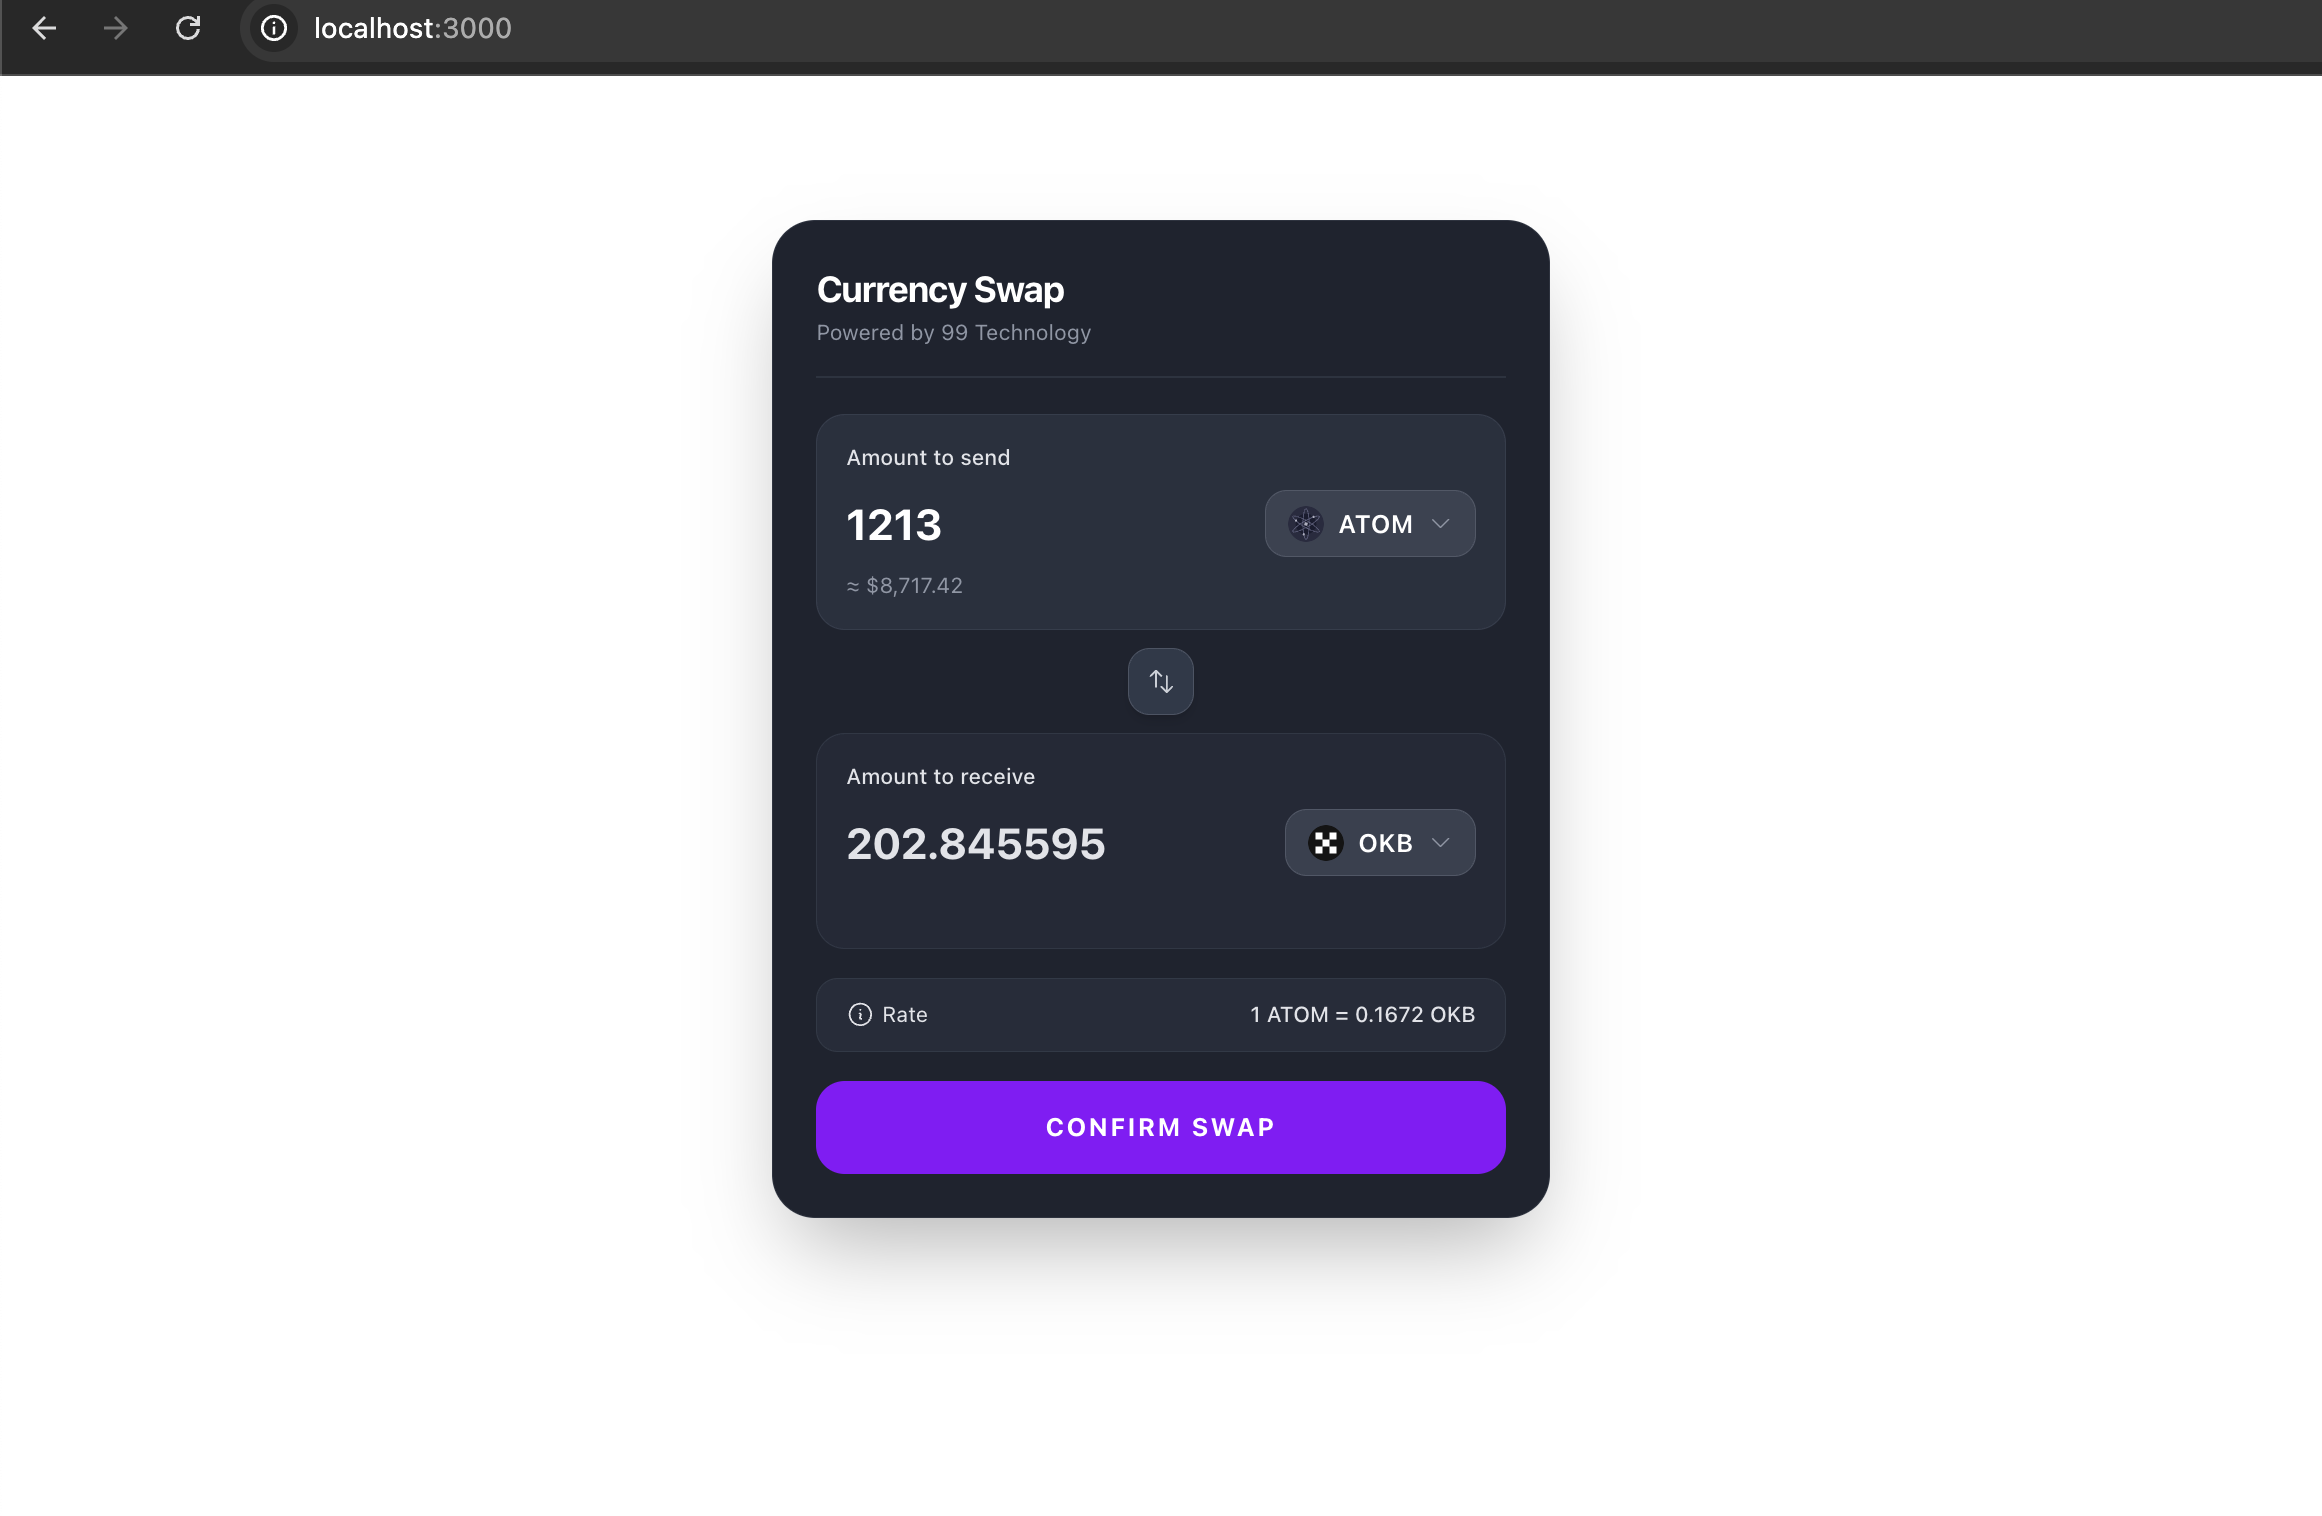
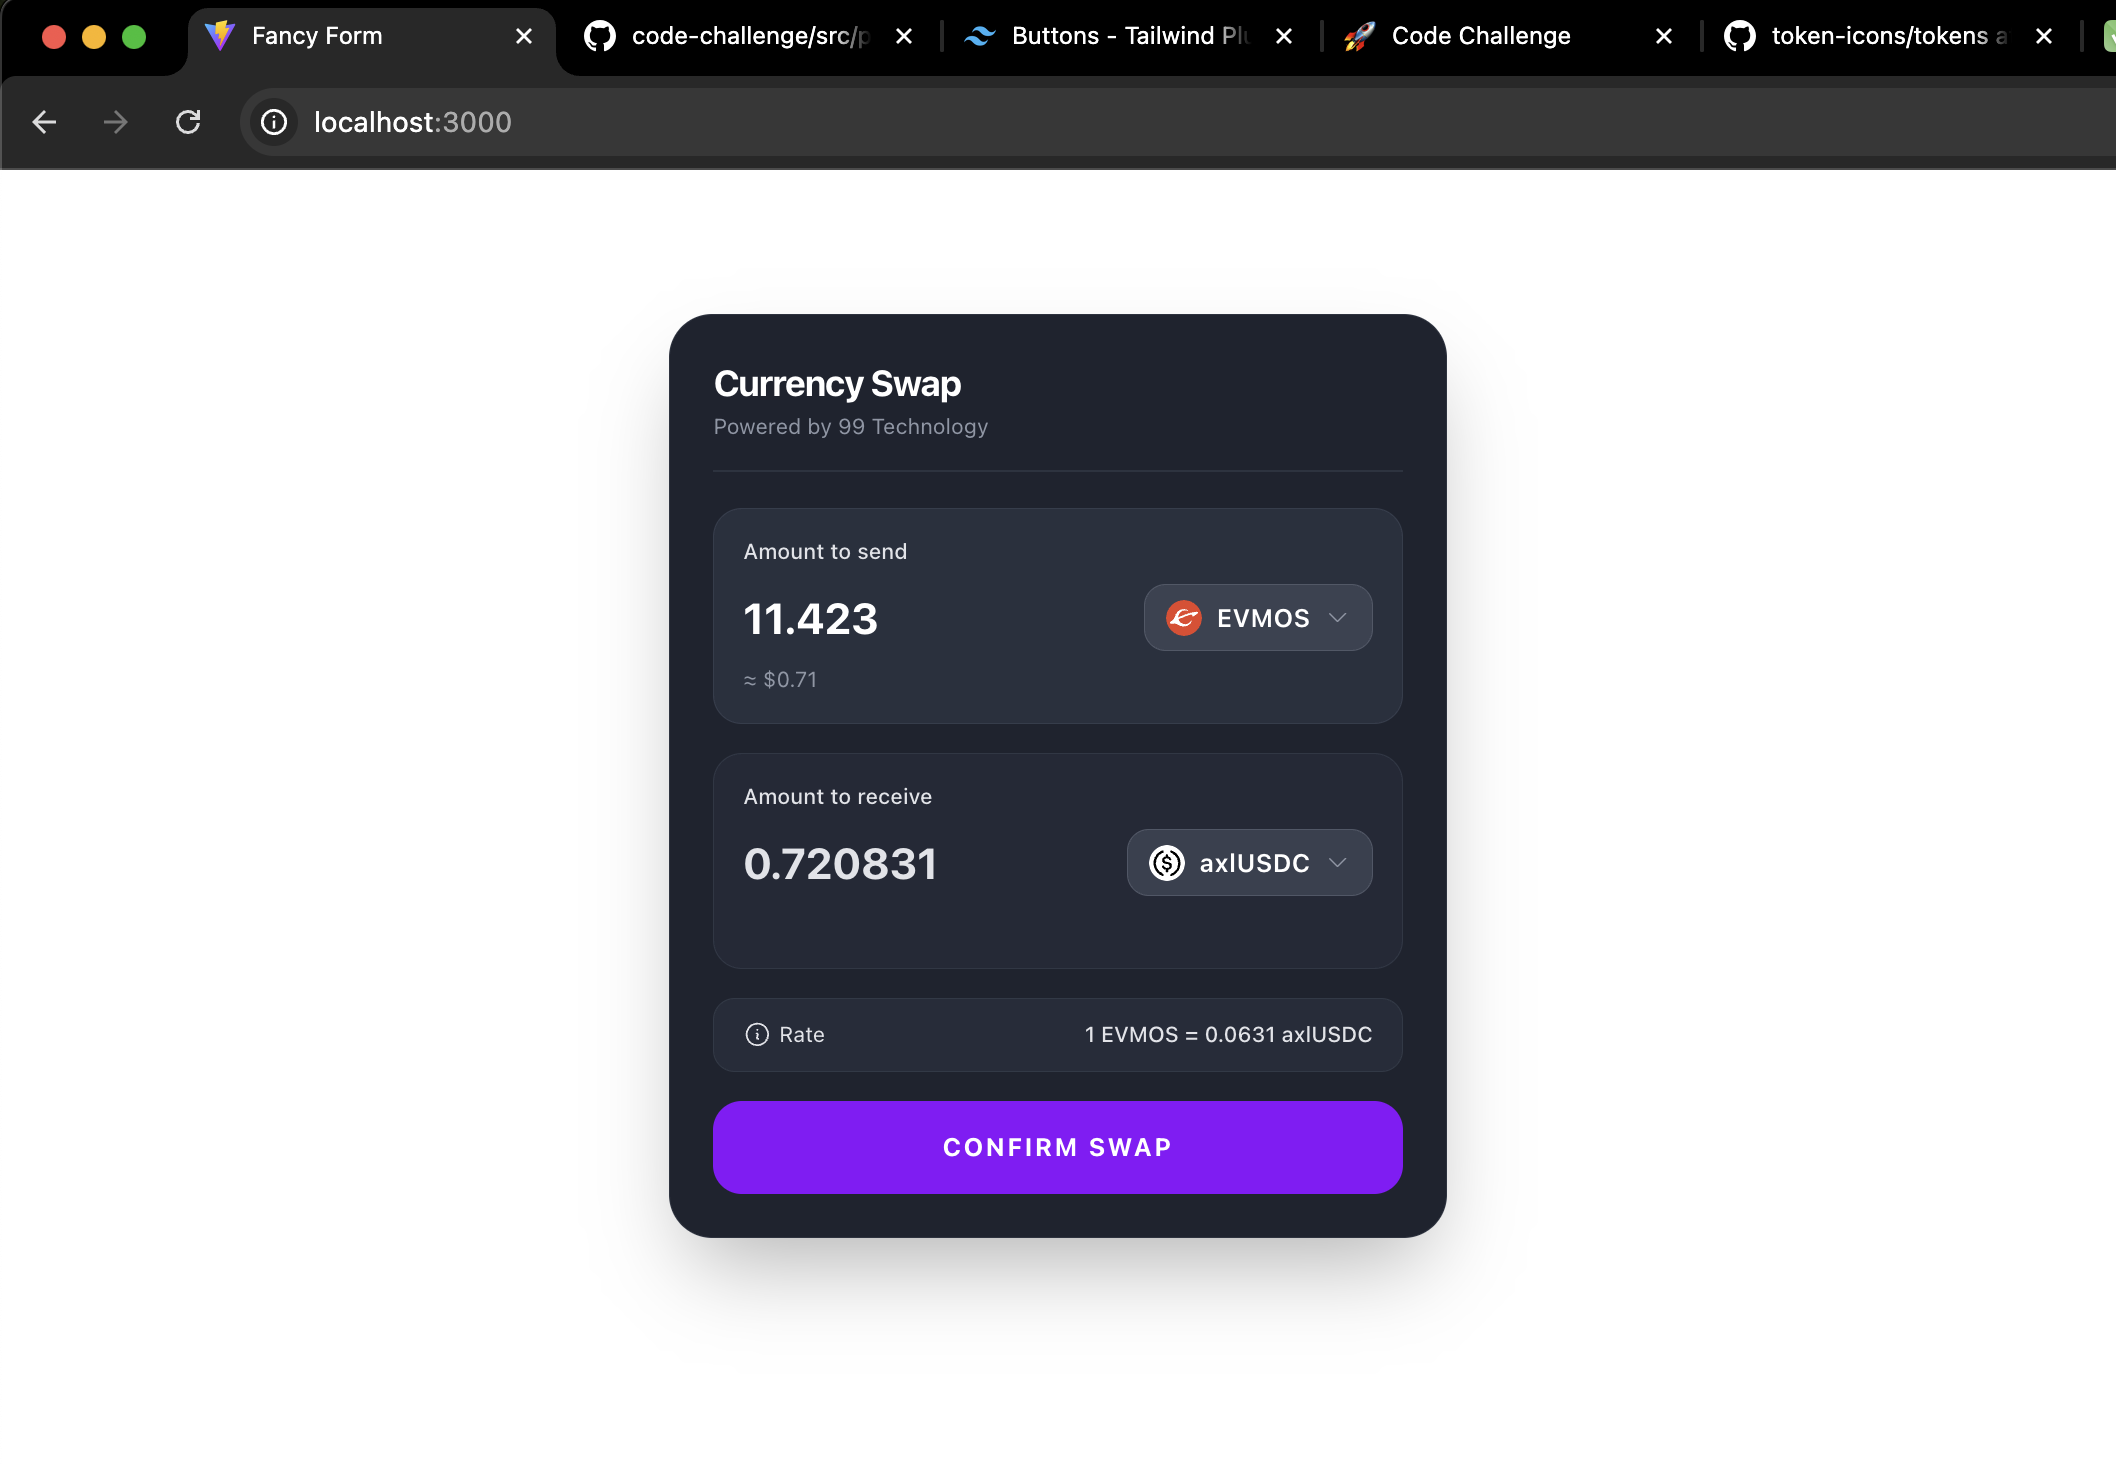
feat: clean up and refactor a bit

diff --git a/src/problem2/src/app/app.tsx b/src/problem2/src/app/app.tsx
@@ -2,7 +2,6 @@ import { useState, useMemo } from 'react';
 import {
   ExclamationCircleIcon,
   ArrowPathIcon,
-  ArrowsUpDownIcon,
   CheckCircleIcon,
   InformationCircleIcon
 } from '@heroicons/react/24/outline';
@@ -45,13 +44,6 @@ export default function App() {
       return 'Cannot swap the same token';
     return null;
   }, [fromAmount, fromToken, toToken]);
-
-  const handleFlip = () => {
-    const capturedTo = toAmount;
-    setFromToken(toToken);
-    setToToken(fromToken);
-    setFromAmount(capturedTo);
-  };
 
   const handleSubmit = (event: React.FormEvent) => {
     event.preventDefault();
@@ -171,17 +163,7 @@ export default function App() {
                 disabled={swap.isPending}
               />
 
-              <div className="flex items-center justify-center my-2.5 relative z-10">
-                <button
-                  type="button"
-                  onClick={handleFlip}
-                  disabled={swap.isPending}
-                  className="group p-2.5 rounded-xl bg-gray-700 hover:bg-purple-600/80 border border-gray-500/60 hover:border-purple-500/50 text-gray-300 hover:text-white transition-all duration-200 hover:scale-110 active:scale-95 disabled:opacity-40 disabled:cursor-not-allowed shadow-md"
-                  title="Flip tokens"
-                >
-                  <ArrowsUpDownIcon className="w-4 h-4 transition-transform duration-300 group-hover:rotate-180" />
-                </button>
-              </div>
+              <div className="my-4" />
 
               <AmountPanel
                 label="Amount to receive"

diff --git a/readme.md b/readme.md
@@ -10,15 +10,17 @@ Dear 99 tech., this is my implementation for the challenges with some notes for 
 ## Challenge #2
 
 - Screenshots for the outcome:
-- ![Initial view](image.png)
-- ![Base swap](image-1.png)
-- ![Mocking API flow](image-2.png)
+
+![Initial view](image.png)
+![Base swap](image-1.png)
+![Mocking API flow](image-2.png)
+![Error handling](image-3.png)
+![Loading handling](image-4.png)
 
 - I use my top convention boilerplate for this: Vital: Vite with React, TypeScript & Tailwindcss. This one bootstraps almost all the latest tech I use in daily basis
 - Dynamic conversion with price and token change flow. I break the components into atom, follow the SOLID principles.
 - Project structure is well represent my convention for feature building: with interfaces via `@types`, common util/helper via `@util`, separate the UI at `@components` and `@hooks`...
 - Mock the API flow with custom hooks representing the flow of `tanstack-query`.
-- Bonus: Flip prices (exchange the price under conversion)
 
 ## Challenge #3
 
